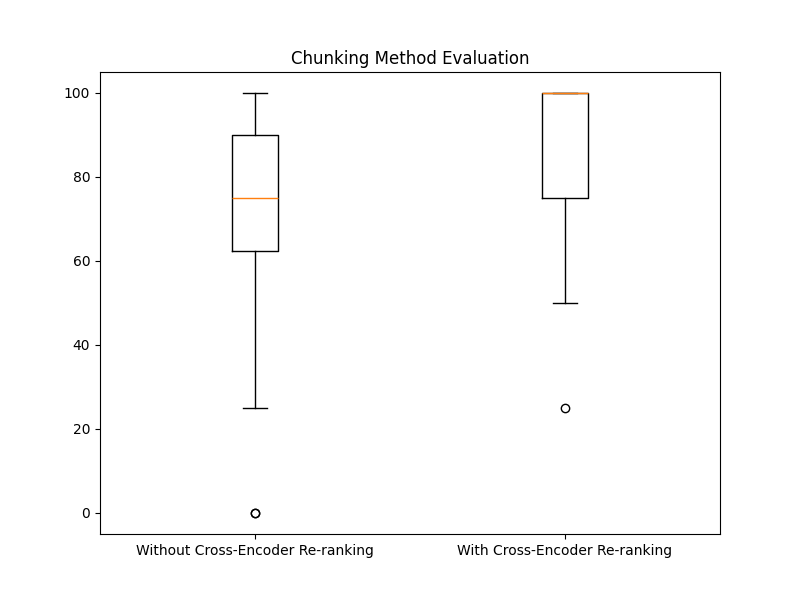
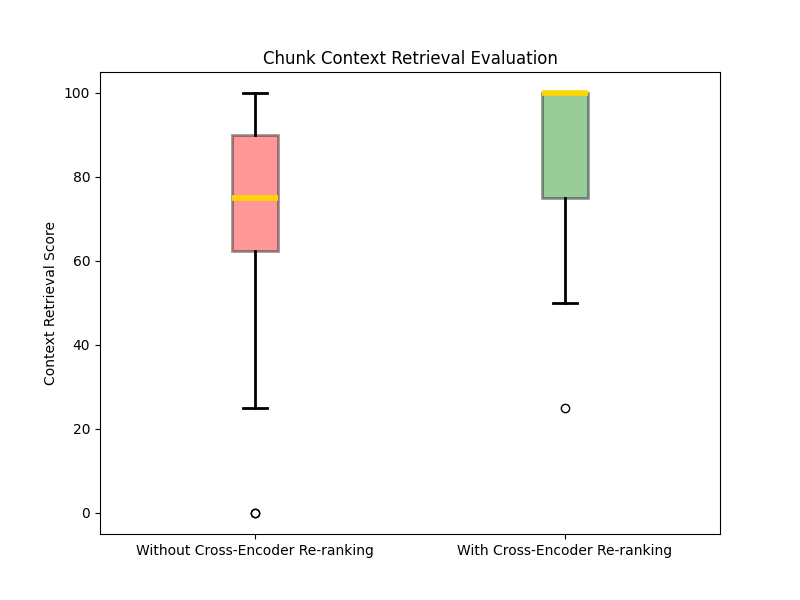
made boxplot cooler

diff --git a/research/reranker/boxplot.py b/research/reranker/boxplot.py
@@ -7,10 +7,24 @@ df_new = pd.read_csv("data/reranked_llm_as_judge.csv")
 
 fig, ax = plt.subplots(figsize=(8,6))
 
-ax.boxplot(df_og["score"], positions=[1], tick_labels=["Without Cross-Encoder Re-ranking"])
-ax.boxplot(df_new["score"], positions=[2], tick_labels=["With Cross-Encoder Re-ranking"])
+bp1 = ax.boxplot(df_og["score"], positions=[1], tick_labels=["Without Cross-Encoder Re-ranking"],
+                 patch_artist=True,
+                 boxprops=dict(facecolor="red", alpha=0.4, color="black", linewidth=2),
+                 medianprops=dict(color="gold", linewidth=4),
+                 whiskerprops=dict(color="black", linewidth=2),
+                 capprops=dict(color="black", linewidth=2))
 
-plt.title("Chunking Method Evaluation")
+bp2 = ax.boxplot(df_new["score"], positions=[2], tick_labels=["With Cross-Encoder Re-ranking"],
+                 patch_artist=True,
+                 boxprops=dict(facecolor="green", alpha=0.4, color="black", linewidth=2),
+                 medianprops=dict(color="gold", linewidth=4),
+                 whiskerprops=dict(color="black", linewidth=2),
+                 capprops=dict(color="black", linewidth=2))
+
+ax.set_ylabel("Context Retrieval Score")
+
+plt.title("Chunk Context Retrieval Evaluation")
+
 
 plt.savefig("data/boxplot.png")
 
